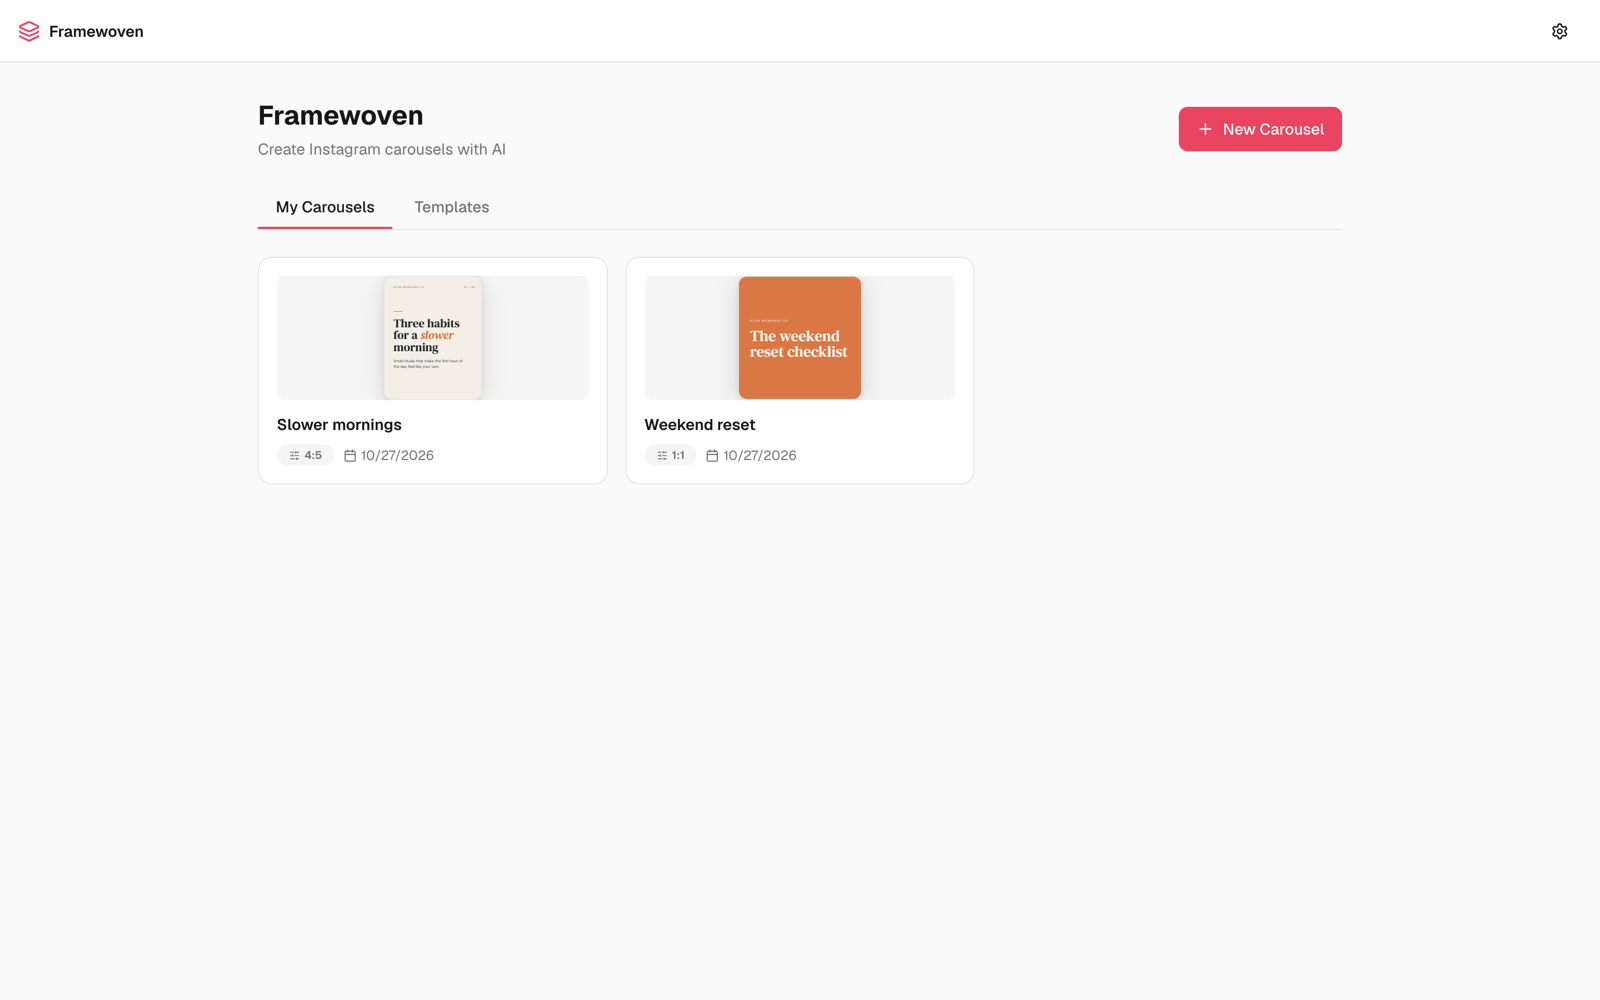
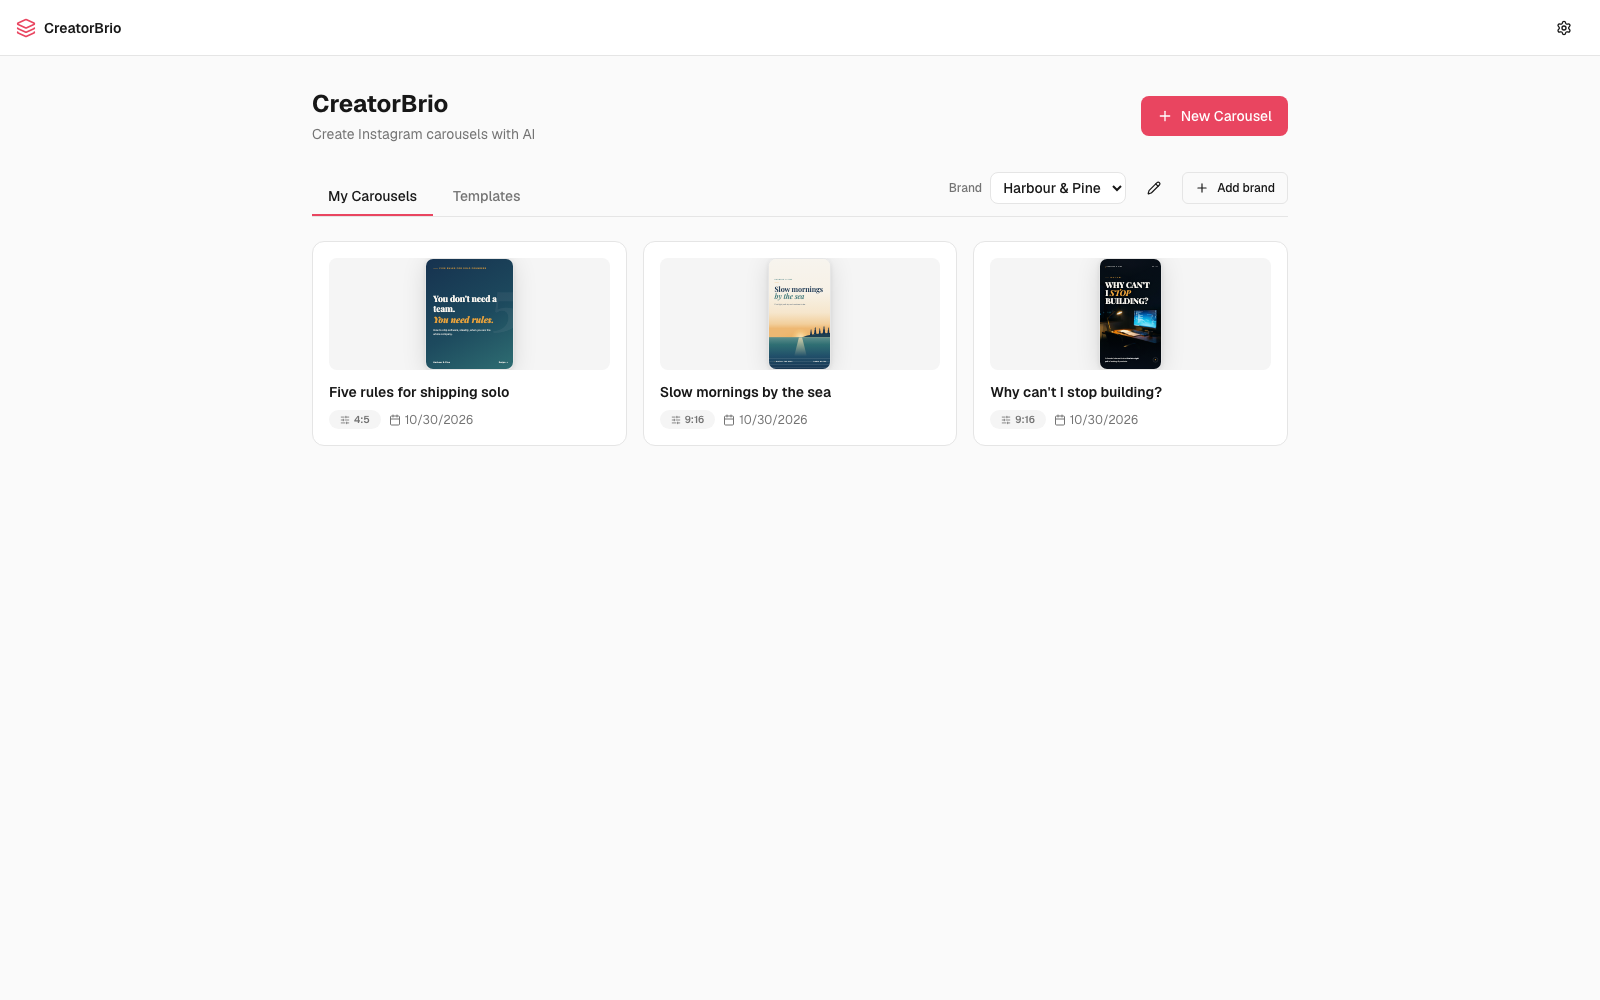
chore: rebrand the local app to CreatorBrio (#29) (#30)
* chore: rebrand the local app to CreatorBrio (#29)

The app, its commands and its current documentation now say CreatorBrio:
the page title, dashboard heading, editor top bar, the chat's assistant
label, the design agent's one-line self-description, setup, doctor,
/start and /stop messages, the LinkedIn PDF's creator and producer, the
Claude session label, the dev-server log name and the package name.

Kept on purpose, each commented where it lives:
- the image-service token path ~/.config/framewoven/image-service.token,
  which moves only in a founder-coordinated migration;
- the dashboard's selected-brand storage key, since renaming it would
  reset every saved selection;
- the generation-status registry key, since a running server that
  reloads must find the same registry;
- mk-global/framewoven URLs, which stay true until the repository is
  renamed. package.json's links to the old manishkumarglobal address,
  which only worked through a redirect, now name the current one.

/start accepts either name while running instances reload. CHANGELOG.md
and the historical statements in PROVENANCE.md are unchanged;
PROVENANCE.md gains a dated note of the rename. MAINTAINING.md records
the names that stay, the exact-name dependencies in EngineeringToolsMK,
and the order of the repository rename cutover.

The golden prompt snapshot changes by the product name only.

* docs: retake the dashboard screenshot as CreatorBrio (#29)
[…]

diff --git a/tests/stop-server.test.ts b/tests/stop-server.test.ts
@@ -16,8 +16,8 @@ import {
   procProbe,
 } from "../scripts/stop-server.mjs";
 
-const ROOT = "/work/framewoven";
-const OTHER = "/work/framewoven-feature";
+const ROOT = "/work/creatorbrio";
+const OTHER = "/work/creatorbrio-feature";
 const UID = 501;
 
 const next = (cwd = ROOT, uid = UID) => ({ uid, command: "next-server (v16.2.3)", cwd });
@@ -61,7 +61,7 @@ describe("parsing what the system reports", () => {
       command: "next-server (v16.2.3)",
     });
     expect(parsePsLine("")).toBeNull();
-    expect(parseLsofCwd("p812\nfcwd\nn/Users/me/framewoven\n")).toBe("/Users/me/framewoven");
+    expect(parseLsofCwd("p812\nfcwd\nn/Users/me/creatorbrio\n")).toBe("/Users/me/creatorbrio");
     expect(parseLsofCwd("")).toBeNull();
   });
 
@@ -93,8 +93,8 @@ describe("recognising this checkout's server", () => {
 
   it("needs the same user, a Next.js server command and this checkout's directory", () => {
     expect(classify(next(), ctx)).toBe("ours");
-    expect(classify({ ...next(), command: "node /work/framewoven/node_modules/.bin/next dev -H 127.0.0.1" }, ctx)).toBe("ours");
-    expect(classify({ ...next(), command: "node /work/framewoven/node_modules/next/dist/bin/next start" }, ctx)).toBe("ours");
+    expect(classify({ ...next(), command: "node /work/creatorbrio/node_modules/.bin/next dev -H 127.0.0.1" }, ctx)).toBe("ours");
+    expect(classify({ ...next(), command: "node /work/creatorbrio/node_modules/next/dist/bin/next start" }, ctx)).toBe("ours");
     expect(classify(next(OTHER), ctx)).toBe("other-checkout");
     expect(classify(next(ROOT, 502), ctx)).toBe("unrelated");
     expect(classify(null, ctx)).toBe("gone");
@@ -111,10 +111,10 @@ describe("recognising this checkout's server", () => {
       "node /work/my-next-app/server.js",
       "nextcloud",
       // The design agent, whose arguments carry the user's own words.
-      "/opt/node22/bin/claude -p Move the CTA to the next slide --name framewoven-chat",
+      "/opt/node22/bin/claude -p Move the CTA to the next slide --name creatorbrio-chat",
       "node /usr/lib/claude/cli.js -p try node ./node_modules/.bin/next dev here",
       "/opt/node22/bin/claude -p next-server (v16.2.3)",
-      "node /work/framewoven/node_modules/.bin/next build",
+      "node /work/creatorbrio/node_modules/.bin/next build",
     ]) {
       expect(classify({ ...next(), command }, ctx), command).toBe("unrelated");
     }
@@ -138,7 +138,7 @@ describe("deciding what /stop does", () => {
     expect(plan(undefined, listeners)).toMatchObject({ action: "stop", pids: [10] });
     const explicit = plan(3000, listeners.filter((l) => l.port === 3000));
     expect(explicit.action).toBe("refuse");
-    expect(explicit.message).toMatch(/not served by this checkout's Framewoven server/);
+    expect(explicit.message).toMatch(/not served by this checkout's CreatorBrio server/);
     expect(explicit.message).toContain("python3 -m http.server 3000");
   });
 
@@ -149,7 +149,7 @@ describe("deciding what /stop does", () => {
     ];
     const result = plan(undefined, listeners);
     expect(result).toMatchObject({ action: "stop", pids: [10], ports: [3010] });
-    expect(result.message).toContain(`Framewoven/Next.js from ${OTHER}`);
+    expect(result.message).toContain(`CreatorBrio/Next.js from ${OTHER}`);
   });
 
   it("reports two servers from the same checkout instead of guessing", () => {
@@ -158,7 +158,7 @@ describe("deciding what /stop does", () => {
       { pid: 11, port: 3011, info: next() },
     ]);
     expect(result.action).toBe("ambiguous");
-    expect(result.message).toMatch(/Found 2 Framewoven servers/);
+    expect(result.message).toMatch(/Found 2 CreatorBrio servers/);
     expect(result.message).toMatch(/:3010 {2}PID 10/);
     expect(result.message).toMatch(/:3011 {2}PID 11/);
     expect(result.message).toMatch(/Run \/stop <port>/);
@@ -269,9 +269,9 @@ process.on("SIGTERM", () => process.exit(0));
 `;
 
   beforeAll(async () => {
-    base = await realpath(await mkdtemp(path.join(tmpdir(), "framewoven-stop-")));
-    checkoutA = path.join(base, "framewoven");
-    checkoutB = path.join(base, "framewoven-worktree");
+    base = await realpath(await mkdtemp(path.join(tmpdir(), "creatorbrio-stop-")));
+    checkoutA = path.join(base, "creatorbrio");
+    checkoutB = path.join(base, "creatorbrio-worktree");
     await mkdir(path.join(base, "bin"));
     await mkdir(checkoutA);
     await mkdir(checkoutB);
@@ -325,8 +325,8 @@ process.on("SIGTERM", () => process.exit(0));
     const { code, output } = await stop(checkoutA);
 
     expect(code).toBe(0);
-    expect(output).toContain(`Stopped the Framewoven server on :${a.port} (PID ${a.pid})`);
-    expect(output).toContain(`Framewoven/Next.js from ${checkoutB}`);
+    expect(output).toContain(`Stopped the CreatorBrio server on :${a.port} (PID ${a.pid})`);
+    expect(output).toContain(`CreatorBrio/Next.js from ${checkoutB}`);
     await exited(a.child);
     expect(running(b.child)).toBe(true);
     expect(running(unrelated.child)).toBe(true);
@@ -338,7 +338,7 @@ process.on("SIGTERM", () => process.exit(0));
 
     const ambiguous = await stop(checkoutA);
     expect(ambiguous.code).toBe(1);
-    expect(ambiguous.output).toMatch(/Found 2 Framewoven servers/);
+    expect(ambiguous.output).toMatch(/Found 2 CreatorBrio servers/);
     expect(running(first.child)).toBe(true);
     expect(running(second.child)).toBe(true);
 
@@ -354,7 +354,7 @@ process.on("SIGTERM", () => process.exit(0));
 
     const one = await stop(checkoutA, [String(unrelated.port)]);
     expect(one.code).toBe(1);
-    expect(one.output).toMatch(/not served by this checkout's Framewoven server/);
+    expect(one.output).toMatch(/not served by this checkout's CreatorBrio server/);
 
     const two = await stop(checkoutA, [String(b.port)]);
     expect(two.code).toBe(1);
@@ -368,7 +368,7 @@ process.on("SIGTERM", () => process.exit(0));
     // Listens from the checkout like the claude CLI does, with user text in its arguments.
     const agent = await start(otherBin, checkoutA, ["-p", "use", "node", "./next", "dev", "on", "the", "next", "slide"]);
 
-    expect((await stop(checkoutA)).output).toMatch(/^No Framewoven server from this checkout/);
+    expect((await stop(checkoutA)).output).toMatch(/^No CreatorBrio server from this checkout/);
     expect((await stop(checkoutA, [String(agent.port)])).code).toBe(1);
     expect(running(agent.child)).toBe(true);
   });
@@ -382,6 +382,6 @@ process.on("SIGTERM", () => process.exit(0));
       code: 0,
       output: `No process of yours is listening on :${gone.port}.`,
     });
-    expect((await stop(checkoutA)).output).toMatch(/^No Framewoven server from this checkout/);
+    expect((await stop(checkoutA)).output).toMatch(/^No CreatorBrio server from this checkout/);
   });
 });

diff --git a/tests/docs-consistency.test.ts b/tests/docs-consistency.test.ts
@@ -17,6 +17,8 @@ const chatRoute = readFileSync(
   path.join(repoRoot, "src/app/api/chat/route.ts"),
   "utf-8"
 );
+const startCommand = readFileSync(path.join(repoRoot, ".claude/commands/start.md"), "utf-8");
+const layout = readFileSync(path.join(repoRoot, "src/app/layout.tsx"), "utf-8");
 
 /** The tool names the chat route actually passes to the Claude CLI. */
 function allowedToolsInChatRoute(): string[] {
@@ -90,5 +92,23 @@ describe("the generated system prompt agrees with the docs", () => {
     expect(prompt).toContain(`Slides: 1/${MAX_SLIDES}`);
     const stated = claudeMd.match(/Max (\d+) slides per carousel/);
     expect(Number(stated![1])).toBe(MAX_SLIDES);
+  });
+});
+
+describe("/start recognizes a running instance", () => {
+  // /start greps the served page to decide whether the port already runs this
+  // app. An instance that has not reloaded since the rename still shows the
+  // former name, and must not be offered for killing.
+  const pattern = startCommand.match(/grep -qE "([^"]+)"/);
+  const title = layout.match(/title: "([^"]+)"/);
+
+  it("matches the page title the app serves", () => {
+    expect(pattern, "start.md should grep the served page").not.toBeNull();
+    expect(title, "layout.tsx should set a title").not.toBeNull();
+    expect(new RegExp(pattern![1]).test(`<title>${title![1]}</title>`)).toBe(true);
+  });
+
+  it("still matches an instance showing the former name", () => {
+    expect(new RegExp(pattern![1]).test("<title>Framewoven - AI Creative Studio</title>")).toBe(true);
   });
 });

diff --git a/tests/export-route.test.ts b/tests/export-route.test.ts
@@ -34,7 +34,7 @@ let workdir: string;
 let originalCwd: string;
 beforeAll(async () => {
   originalCwd = process.cwd();
-  workdir = await mkdtemp(path.join(tmpdir(), "framewoven-export-route-"));
+  workdir = await mkdtemp(path.join(tmpdir(), "creatorbrio-export-route-"));
   process.chdir(workdir);
 });
 afterAll(async () => {
@@ -194,7 +194,7 @@ describe("LinkedIn PDF export", () => {
     "refuses a PDF above LinkedIn's 100 MB limit with an actionable error",
     async () => {
       // 20 story slides of incompressible detail is the largest carousel
-      // Framewoven allows, and it does not fit in a LinkedIn document.
+      // CreatorBrio allows, and it does not fit in a LinkedIn document.
       const noise = await detailedSlidePng(1080, 1920, 11);
       getCarouselMock.mockResolvedValue(carousel("9:16", 20));
       exportAllSlidesMock.mockResolvedValue(

diff --git a/tests/export-pdf-render.test.ts b/tests/export-pdf-render.test.ts
@@ -85,7 +85,7 @@ describe.skipIf(!chromium)("PDF export through the real slide renderer", () => {
 
     // Uploads and the font cache resolve from the working directory, so the
     // test uses a throwaway one rather than the real ./public and ./data.
-    workdir = await mkdtemp(path.join(tmpdir(), "framewoven-pdf-render-"));
+    workdir = await mkdtemp(path.join(tmpdir(), "creatorbrio-pdf-render-"));
     await mkdir(path.join(workdir, "public", "uploads"), { recursive: true });
     await mkdir(path.join(workdir, "data"), { recursive: true });
     const fixture = await sharp({

diff --git a/tests/export-single-png-render.test.ts b/tests/export-single-png-render.test.ts
@@ -66,7 +66,7 @@ describe.skipIf(!chromium)("single PNG download through the real renderer", () =
     previousExecutable = process.env.PUPPETEER_EXECUTABLE_PATH;
     process.env.PUPPETEER_EXECUTABLE_PATH = chromium!;
 
-    workdir = await mkdtemp(path.join(tmpdir(), "framewoven-single-png-"));
+    workdir = await mkdtemp(path.join(tmpdir(), "creatorbrio-single-png-"));
     await mkdir(path.join(workdir, "public", "uploads"), { recursive: true });
     await mkdir(path.join(workdir, "data"), { recursive: true });
     await writeFile(

diff --git a/src/lib/chat-system-prompt.ts b/src/lib/chat-system-prompt.ts
@@ -54,7 +54,7 @@ ${stylePreset.exampleSlideHtml ? `Example slide HTML for reference:\n\`\`\`html\
     ? DIMENSIONS[carousel.aspectRatio]
     : DIMENSIONS["4:5"];
 
-  return `You are the autonomous AI design engine for Framewoven. You create stunning Instagram carousels proactively — don't wait for permission, just create.
+  return `You are the autonomous AI design engine for CreatorBrio. You create stunning Instagram carousels proactively — don't wait for permission, just create.
 
 ${brandSection}
 

diff --git a/tests/chat-brand-context.test.ts b/tests/chat-brand-context.test.ts
@@ -53,7 +53,7 @@ const ORIGINAL_BRAND: BrandConfig = {
 beforeEach(async () => {
   spawned.length = 0;
   originalCwd = process.cwd();
-  workdir = await mkdtemp(path.join(tmpdir(), "framewoven-chat-brand-"));
+  workdir = await mkdtemp(path.join(tmpdir(), "creatorbrio-chat-brand-"));
   await mkdir(path.join(workdir, "data"), { recursive: true });
   process.chdir(workdir);
   await writeFile(path.join(workdir, "data", "brand.json"), JSON.stringify(ORIGINAL_BRAND, null, 2));

diff --git a/tests/export-pdf.test.ts b/tests/export-pdf.test.ts
@@ -238,7 +238,7 @@ describe("buildSlidesPdf", () => {
   it("uses LinkedIn's document limits by default", async () => {
     expect(LINKEDIN_MAX_PDF_BYTES).toBe(100_000_000);
     expect(LINKEDIN_MAX_PDF_PAGES).toBe(300);
-    // Framewoven's own slide limit sits well inside LinkedIn's page limit.
+    // CreatorBrio's own slide limit sits well inside LinkedIn's page limit.
     expect(MAX_SLIDES).toBeLessThanOrEqual(LINKEDIN_MAX_PDF_PAGES);
 
     const tooMany = Array.from(

diff --git a/src/app/page.tsx b/src/app/page.tsx
@@ -145,7 +145,7 @@ export default function DashboardPage() {
         <div className="max-w-5xl mx-auto px-6 py-8">
           <div className="flex items-center justify-between mb-6">
             <div>
-              <h1 className="text-2xl font-bold">Framewoven</h1>
+              <h1 className="text-2xl font-bold">CreatorBrio</h1>
               <p className="text-sm text-muted-foreground mt-1">
                 Create Instagram carousels with AI
               </p>

diff --git a/src/lib/image-service.ts b/src/lib/image-service.ts
@@ -94,7 +94,8 @@ function serviceUrl(): URL {
 
 /**
  * Reads the token at request time from an owner-only file. A file other users
- * could read is refused rather than used.
+ * could read is refused rather than used. The path keeps the product's former
+ * name until the founder migrates the provisioned token (#29).
  */
 async function readToken(): Promise<string> {
   const file = path.join(os.homedir(), ".config", "framewoven", "image-service.token");

diff --git a/tests/export-readiness.test.ts b/tests/export-readiness.test.ts
@@ -67,7 +67,7 @@ let fakeDir: string;
 
 beforeEach(async () => {
   originalCwd = process.cwd();
-  workdir = await mkdtemp(path.join(tmpdir(), "framewoven-export-readiness-"));
+  workdir = await mkdtemp(path.join(tmpdir(), "creatorbrio-export-readiness-"));
   await mkdir(path.join(workdir, "data"), { recursive: true });
   await writeFile(path.join(workdir, "data", "brand.json"), JSON.stringify(BRAND));
   fakeDir = path.join(workdir, "fake-claude");

diff --git a/src/components/chat/ChatMessage.tsx b/src/components/chat/ChatMessage.tsx
@@ -33,7 +33,7 @@ export function ChatMessage({ role, content, isStreaming }: ChatMessageProps) {
       </div>
       <div className="flex-1 min-w-0">
         <div className="text-xs font-medium text-muted-foreground mb-1">
-          {role === "user" ? "You" : "Framewoven AI"}
+          {role === "user" ? "You" : "CreatorBrio AI"}
         </div>
         <div className="text-sm leading-relaxed whitespace-pre-wrap break-words">
           {content}
